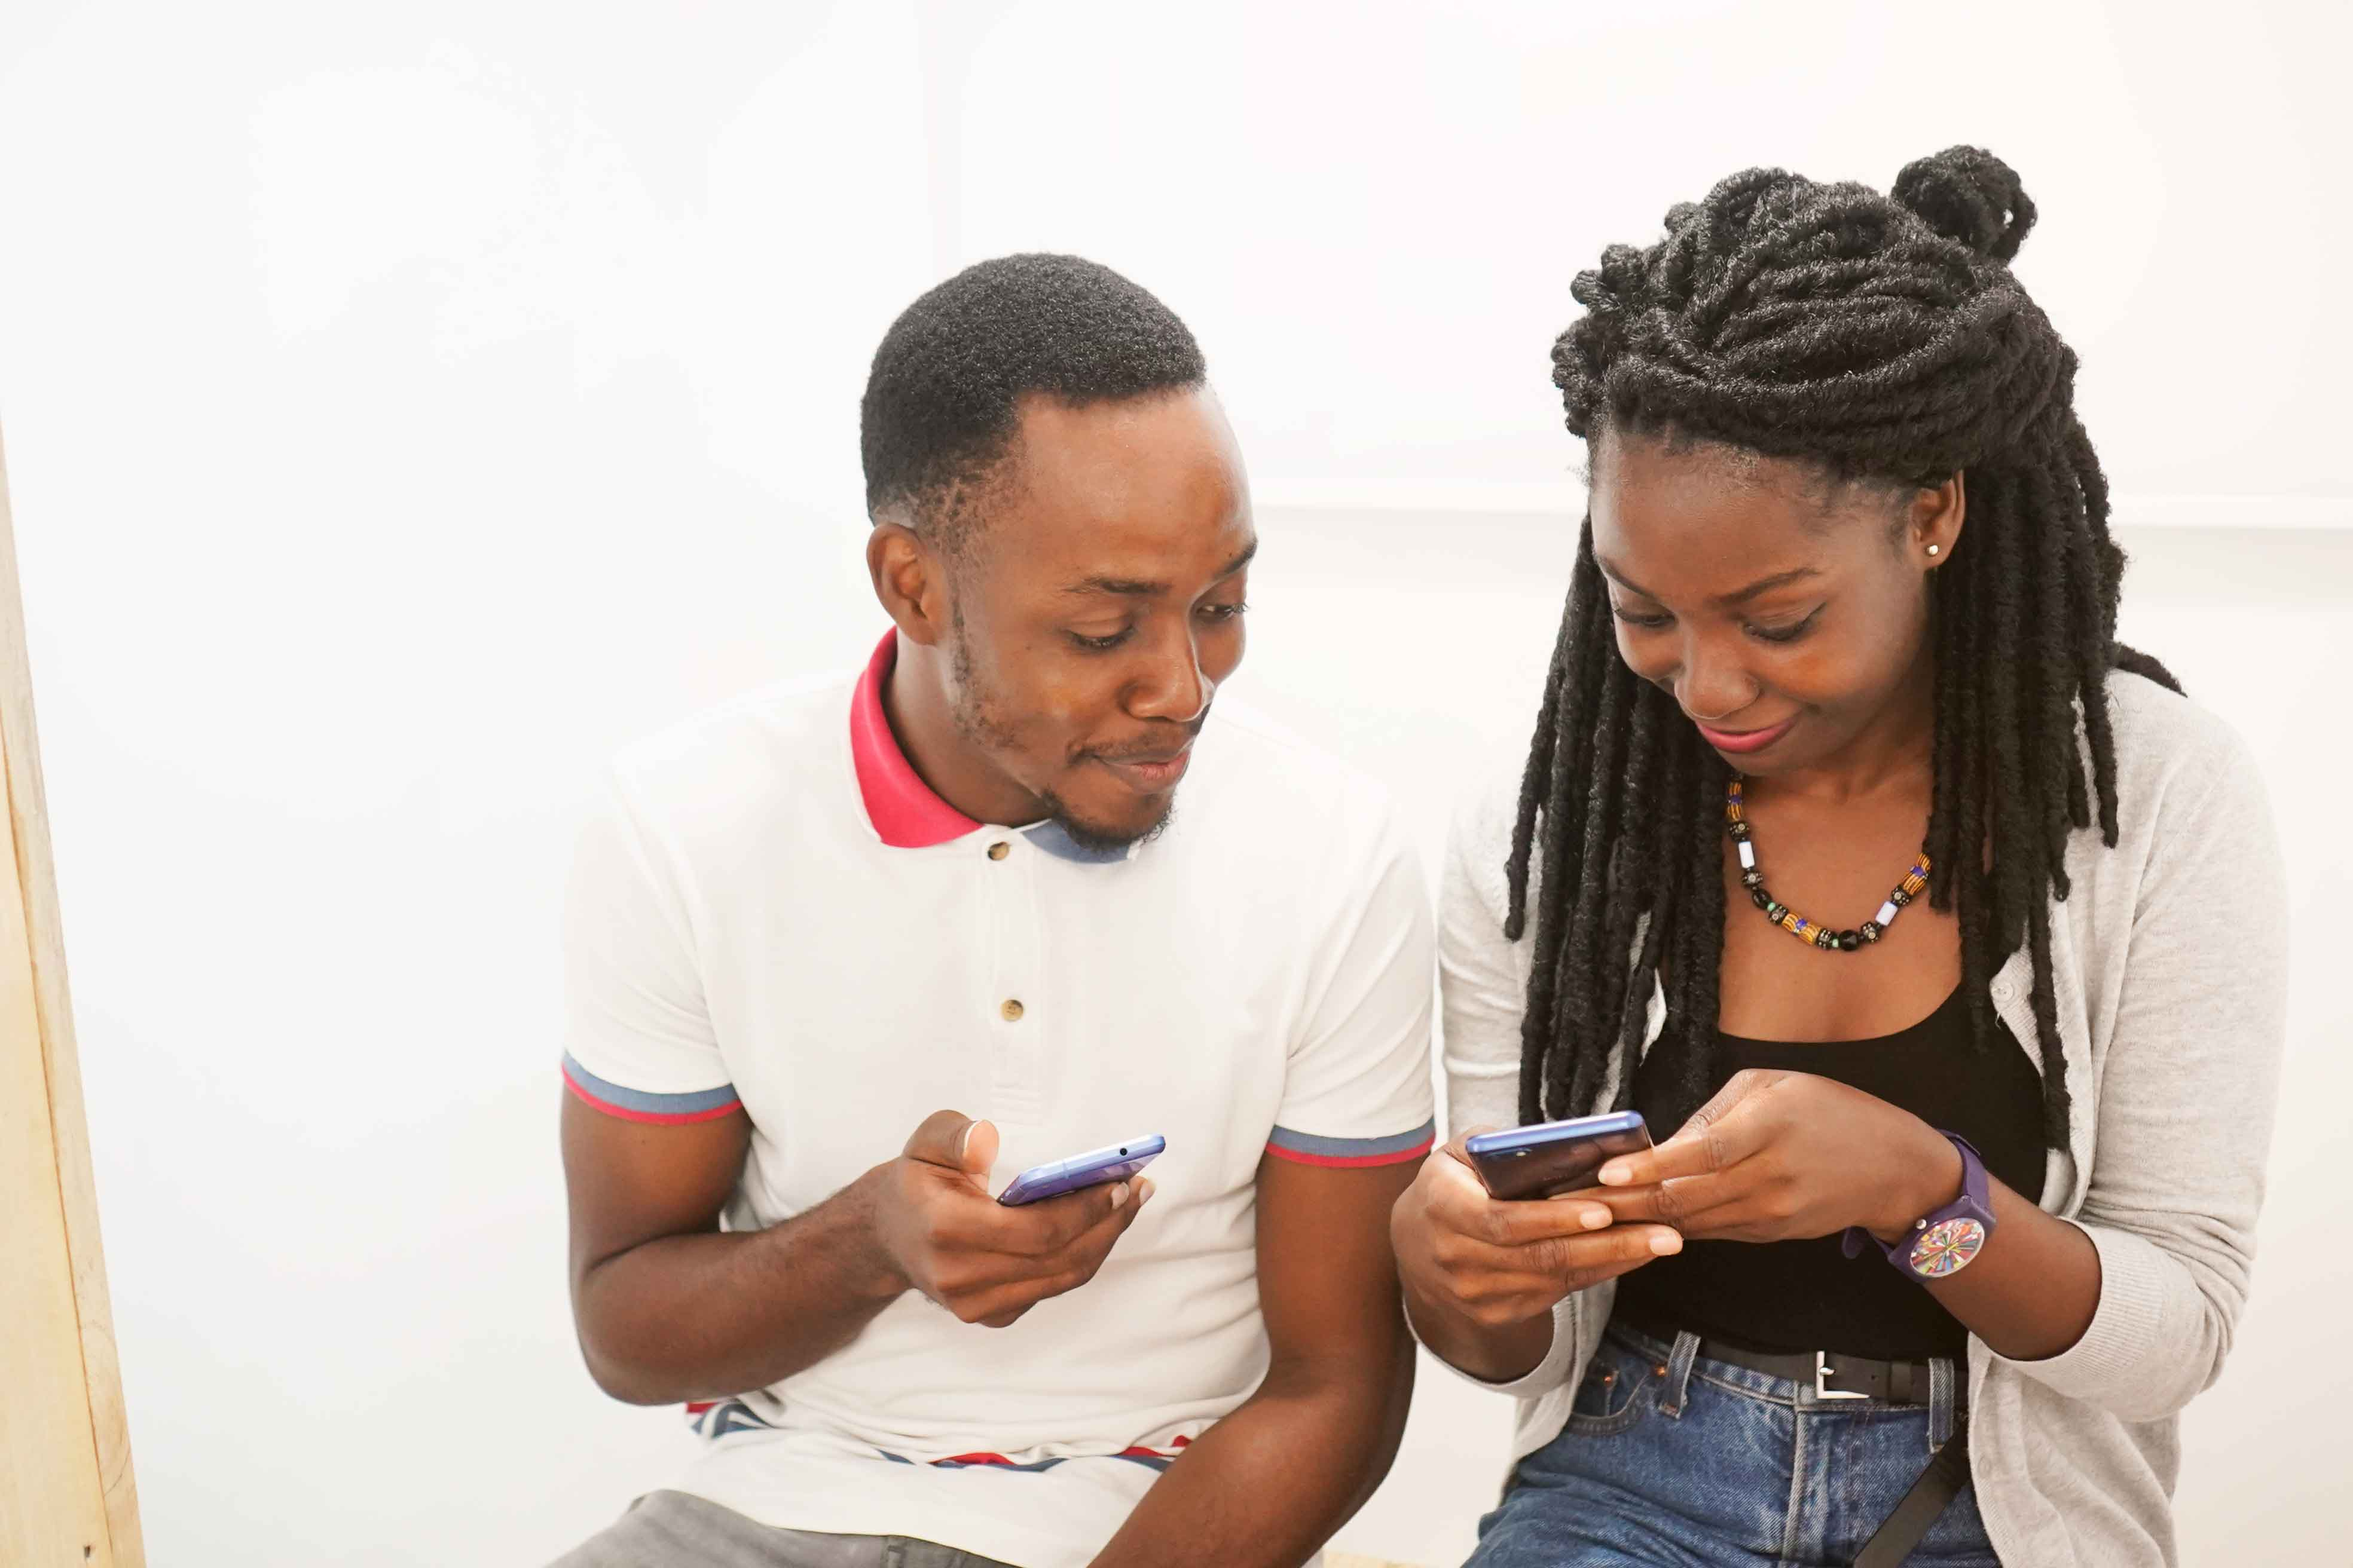
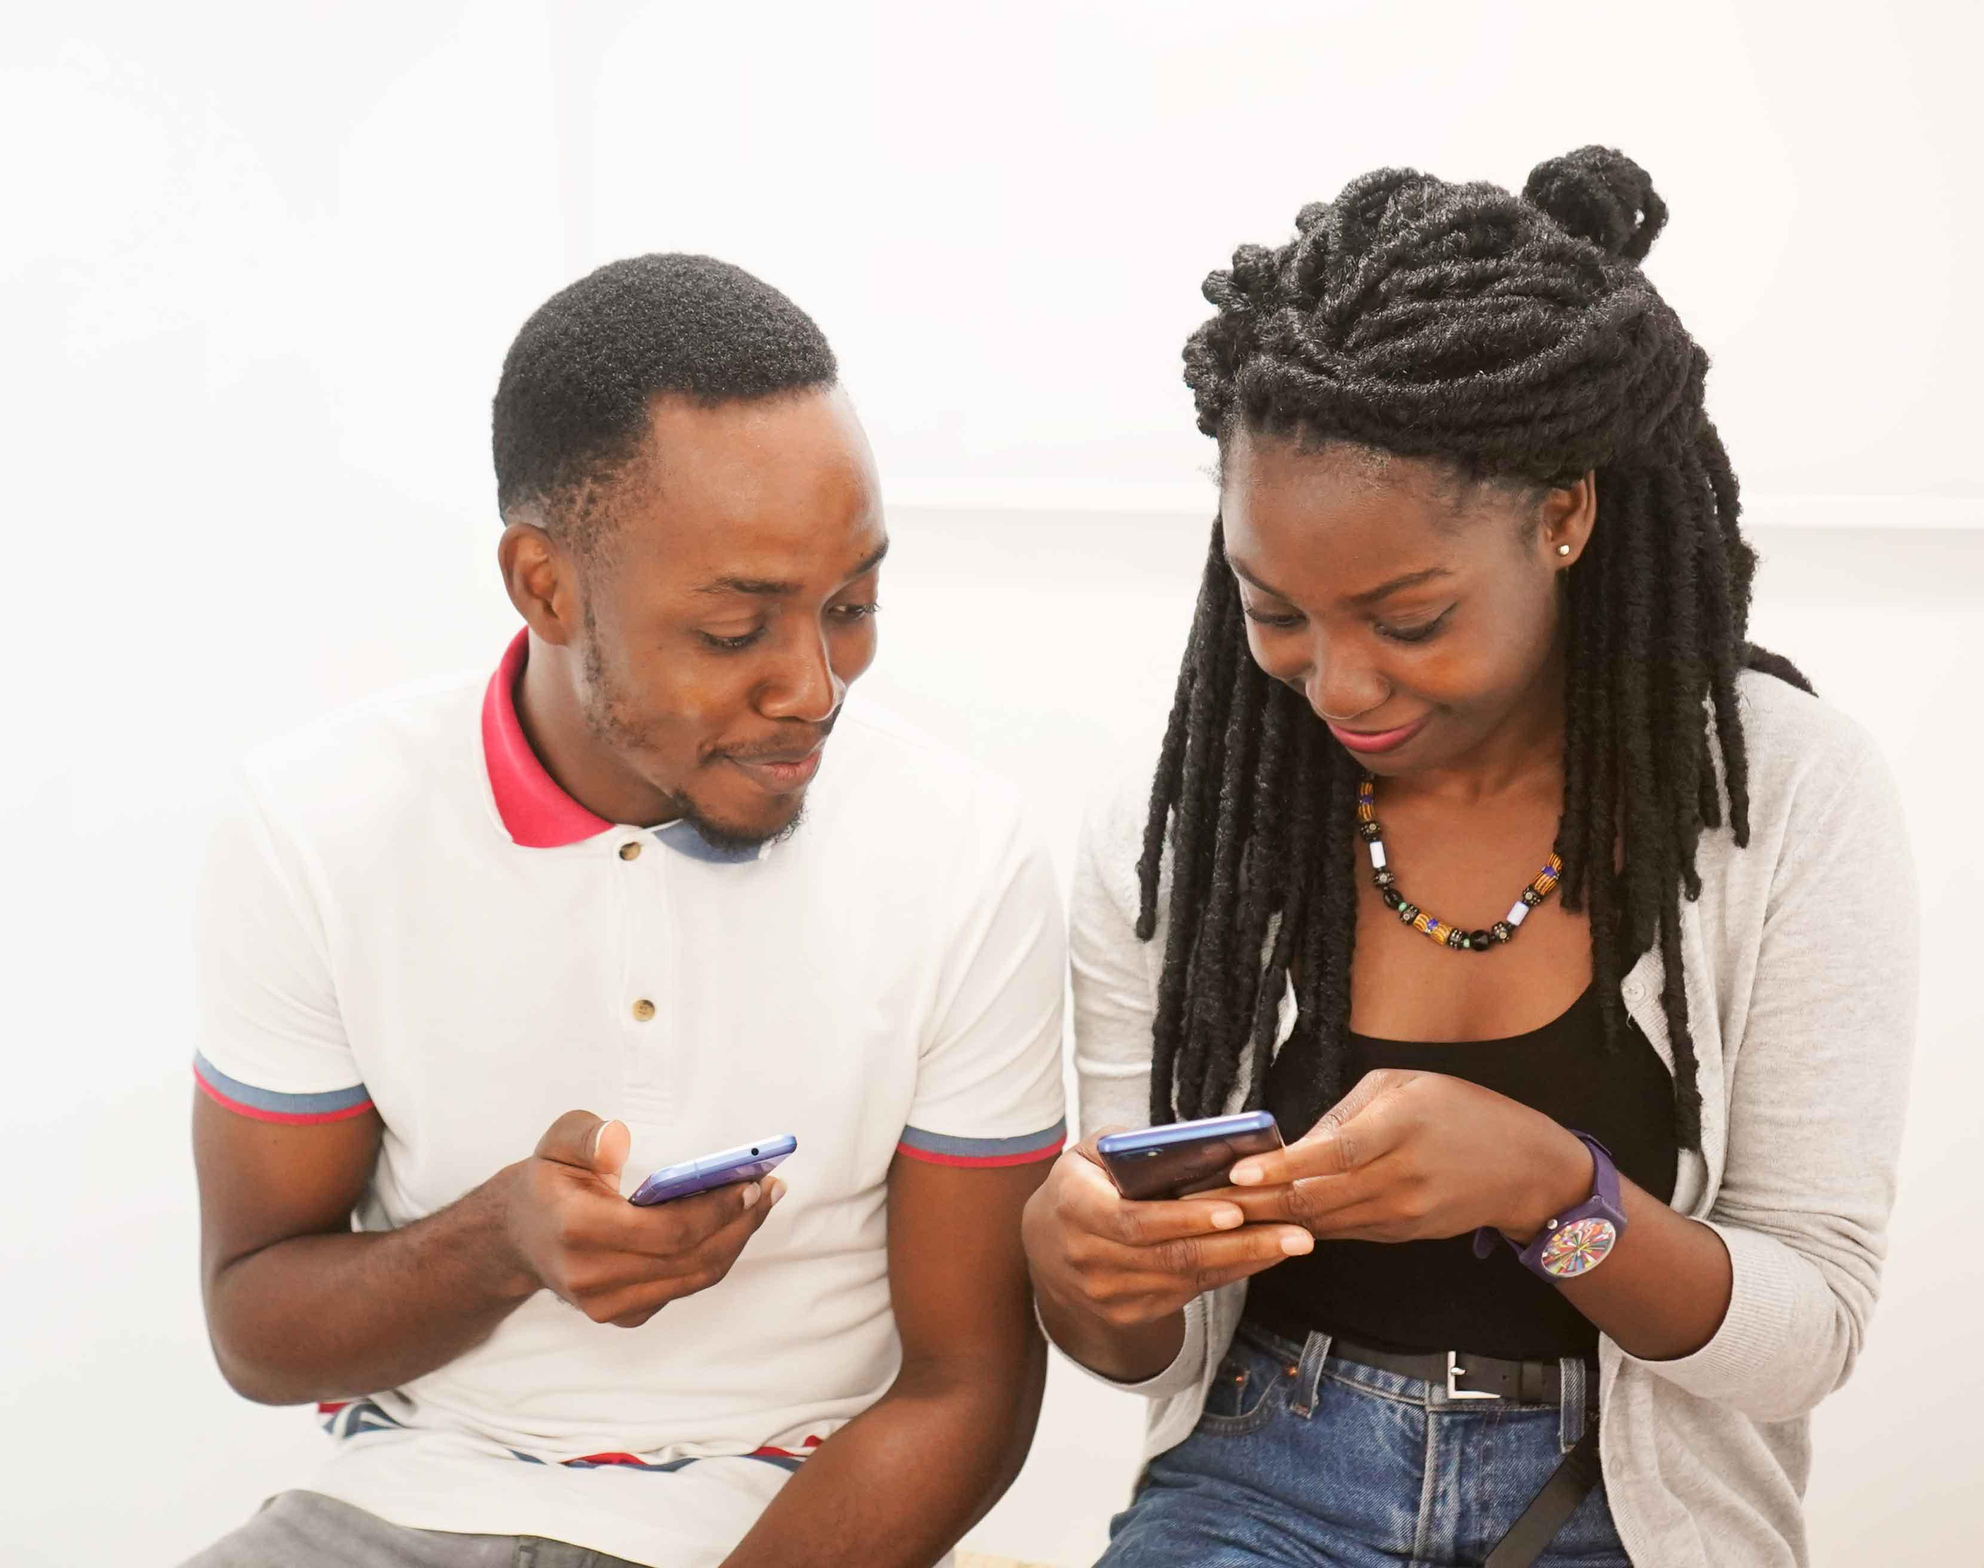
for everyone image changed

diff --git a/_site/augustine.html b/_site/augustine.html
@@ -27,9 +27,9 @@
 <meta property="og:site_name" content="Eyowo" />
 <meta property="og:image" content="https://www.eyowo.com/uploads/people/austines-pix.jpg" />
 <meta property="og:type" content="article" />
-<meta property="article:published_time" content="2018-08-06T17:46:42+01:00" />
+<meta property="article:published_time" content="2018-08-07T09:29:54+01:00" />
 <script type="application/ld+json">
-{"description":"Eyowo is the simplest way to send or recieve money online or offline.","@type":"BlogPosting","url":"https://www.eyowo.com/augustine","image":"https://www.eyowo.com/uploads/people/austines-pix.jpg","headline":"Augustine Ogwo","dateModified":"2018-08-06T17:46:42+01:00","datePublished":"2018-08-06T17:46:42+01:00","mainEntityOfPage":{"@type":"WebPage","@id":"https://www.eyowo.com/augustine"},"@context":"http://schema.org"}</script>
+{"description":"Eyowo is the simplest way to send or recieve money online or offline.","@type":"BlogPosting","url":"https://www.eyowo.com/augustine","image":"https://www.eyowo.com/uploads/people/austines-pix.jpg","headline":"Augustine Ogwo","dateModified":"2018-08-07T09:29:54+01:00","datePublished":"2018-08-07T09:29:54+01:00","mainEntityOfPage":{"@type":"WebPage","@id":"https://www.eyowo.com/augustine"},"@context":"http://schema.org"}</script>
 <!-- End Jekyll SEO tag -->
 
     <link type="application/atom+xml" rel="alternate" href="https://www.eyowo.com/feed.xml" title="Eyowo" />

diff --git a/_site/patrick.html b/_site/patrick.html
@@ -27,9 +27,9 @@
 <meta property="og:site_name" content="Eyowo" />
 <meta property="og:image" content="https://www.eyowo.com/uploads/people/avatar.jpg" />
 <meta property="og:type" content="article" />
-<meta property="article:published_time" content="2018-08-06T17:46:42+01:00" />
+<meta property="article:published_time" content="2018-08-07T09:29:54+01:00" />
 <script type="application/ld+json">
-{"description":"Eyowo is the simplest way to send or recieve money online or offline.","@type":"BlogPosting","url":"https://www.eyowo.com/patrick","image":"https://www.eyowo.com/uploads/people/avatar.jpg","headline":"Patrick Ikoi","dateModified":"2018-08-06T17:46:42+01:00","datePublished":"2018-08-06T17:46:42+01:00","mainEntityOfPage":{"@type":"WebPage","@id":"https://www.eyowo.com/patrick"},"@context":"http://schema.org"}</script>
+{"description":"Eyowo is the simplest way to send or recieve money online or offline.","@type":"BlogPosting","url":"https://www.eyowo.com/patrick","image":"https://www.eyowo.com/uploads/people/avatar.jpg","headline":"Patrick Ikoi","dateModified":"2018-08-07T09:29:54+01:00","datePublished":"2018-08-07T09:29:54+01:00","mainEntityOfPage":{"@type":"WebPage","@id":"https://www.eyowo.com/patrick"},"@context":"http://schema.org"}</script>
 <!-- End Jekyll SEO tag -->
 
     <link type="application/atom+xml" rel="alternate" href="https://www.eyowo.com/feed.xml" title="Eyowo" />

diff --git a/_site/folake.html b/_site/folake.html
@@ -27,9 +27,9 @@
 <meta property="og:site_name" content="Eyowo" />
 <meta property="og:image" content="https://www.eyowo.com/uploads/people/avatar.jpg" />
 <meta property="og:type" content="article" />
-<meta property="article:published_time" content="2018-08-06T17:46:42+01:00" />
+<meta property="article:published_time" content="2018-08-07T09:29:54+01:00" />
 <script type="application/ld+json">
-{"description":"Eyowo is the simplest way to send or recieve money online or offline.","@type":"BlogPosting","url":"https://www.eyowo.com/folake","image":"https://www.eyowo.com/uploads/people/avatar.jpg","headline":"Folake Agbaje","dateModified":"2018-08-06T17:46:42+01:00","datePublished":"2018-08-06T17:46:42+01:00","mainEntityOfPage":{"@type":"WebPage","@id":"https://www.eyowo.com/folake"},"@context":"http://schema.org"}</script>
+{"description":"Eyowo is the simplest way to send or recieve money online or offline.","@type":"BlogPosting","url":"https://www.eyowo.com/folake","image":"https://www.eyowo.com/uploads/people/avatar.jpg","headline":"Folake Agbaje","dateModified":"2018-08-07T09:29:54+01:00","datePublished":"2018-08-07T09:29:54+01:00","mainEntityOfPage":{"@type":"WebPage","@id":"https://www.eyowo.com/folake"},"@context":"http://schema.org"}</script>
 <!-- End Jekyll SEO tag -->
 
     <link type="application/atom+xml" rel="alternate" href="https://www.eyowo.com/feed.xml" title="Eyowo" />

diff --git a/_site/seun.html b/_site/seun.html
@@ -27,9 +27,9 @@
 <meta property="og:site_name" content="Eyowo" />
 <meta property="og:image" content="https://www.eyowo.com/uploads/people/avatar.jpg" />
 <meta property="og:type" content="article" />
-<meta property="article:published_time" content="2018-08-06T17:46:42+01:00" />
+<meta property="article:published_time" content="2018-08-07T09:29:54+01:00" />
 <script type="application/ld+json">
-{"description":"Eyowo is the simplest way to send or recieve money online or offline.","@type":"BlogPosting","url":"https://www.eyowo.com/seun","image":"https://www.eyowo.com/uploads/people/avatar.jpg","headline":"Seun Williams","dateModified":"2018-08-06T17:46:42+01:00","datePublished":"2018-08-06T17:46:42+01:00","mainEntityOfPage":{"@type":"WebPage","@id":"https://www.eyowo.com/seun"},"@context":"http://schema.org"}</script>
+{"description":"Eyowo is the simplest way to send or recieve money online or offline.","@type":"BlogPosting","url":"https://www.eyowo.com/seun","image":"https://www.eyowo.com/uploads/people/avatar.jpg","headline":"Seun Williams","dateModified":"2018-08-07T09:29:54+01:00","datePublished":"2018-08-07T09:29:54+01:00","mainEntityOfPage":{"@type":"WebPage","@id":"https://www.eyowo.com/seun"},"@context":"http://schema.org"}</script>
 <!-- End Jekyll SEO tag -->
 
     <link type="application/atom+xml" rel="alternate" href="https://www.eyowo.com/feed.xml" title="Eyowo" />

diff --git a/_site/investments.html b/_site/investments.html
@@ -26,9 +26,9 @@
 <meta property="og:url" content="https://www.eyowo.com/investments" />
 <meta property="og:site_name" content="Eyowo" />
 <meta property="og:type" content="article" />
-<meta property="article:published_time" content="2018-08-06T17:46:42+01:00" />
+<meta property="article:published_time" content="2018-08-07T09:29:54+01:00" />
 <script type="application/ld+json">
-{"description":"Eyowo is the simplest way to send or recieve money online or offline.","@type":"BlogPosting","url":"https://www.eyowo.com/investments","headline":"Business","dateModified":"2018-08-06T17:46:42+01:00","datePublished":"2018-08-06T17:46:42+01:00","mainEntityOfPage":{"@type":"WebPage","@id":"https://www.eyowo.com/investments"},"@context":"http://schema.org"}</script>
+{"description":"Eyowo is the simplest way to send or recieve money online or offline.","@type":"BlogPosting","url":"https://www.eyowo.com/investments","headline":"Business","dateModified":"2018-08-07T09:29:54+01:00","datePublished":"2018-08-07T09:29:54+01:00","mainEntityOfPage":{"@type":"WebPage","@id":"https://www.eyowo.com/investments"},"@context":"http://schema.org"}</script>
 <!-- End Jekyll SEO tag -->
 
     <link type="application/atom+xml" rel="alternate" href="https://www.eyowo.com/feed.xml" title="Eyowo" />

diff --git a/_site/finances.html b/_site/finances.html
@@ -26,9 +26,9 @@
 <meta property="og:url" content="https://www.eyowo.com/finances" />
 <meta property="og:site_name" content="Eyowo" />
 <meta property="og:type" content="article" />
-<meta property="article:published_time" content="2018-08-06T17:46:42+01:00" />
+<meta property="article:published_time" content="2018-08-07T09:29:54+01:00" />
 <script type="application/ld+json">
-{"description":"Eyowo is the simplest way to send or recieve money online or offline.","@type":"BlogPosting","url":"https://www.eyowo.com/finances","headline":"Finances","dateModified":"2018-08-06T17:46:42+01:00","datePublished":"2018-08-06T17:46:42+01:00","mainEntityOfPage":{"@type":"WebPage","@id":"https://www.eyowo.com/finances"},"@context":"http://schema.org"}</script>
+{"description":"Eyowo is the simplest way to send or recieve money online or offline.","@type":"BlogPosting","url":"https://www.eyowo.com/finances","headline":"Finances","dateModified":"2018-08-07T09:29:54+01:00","datePublished":"2018-08-07T09:29:54+01:00","mainEntityOfPage":{"@type":"WebPage","@id":"https://www.eyowo.com/finances"},"@context":"http://schema.org"}</script>
 <!-- End Jekyll SEO tag -->
 
     <link type="application/atom+xml" rel="alternate" href="https://www.eyowo.com/feed.xml" title="Eyowo" />

diff --git a/_layouts/home.html b/_layouts/home.html
@@ -65,7 +65,7 @@ layout: default
                 <button class="everyone-button video-button absolute-middle" data-video-link="https://www.youtube.com/embed/-9WFWI16yzU">
                     <!-- {% include tools/icons.html icon="play-button" %} -->
                 </button>
-                <img src="{{ site.url }}/uploads/people/for-every-one-x.jpg" class="cardshadow" alt="{{ item.title }}" class="stacked-tile-image obj-fit-cover is-raised">
+                <img src="{{ site.url }}/uploads/people/for-every-one.jpg" class="cardshadow" alt="{{ item.title }}" class="stacked-tile-image obj-fit-cover is-raised">
             </div>
             <div class="stacked-tile-body card is-raised wrapper will-grow gradient-from-right p-left">
                 <h2 class="mt-0">

diff --git a/_site/index.html b/_site/index.html
@@ -318,7 +318,7 @@ Carry-out transactions with or without a bank account, whether online or offline
     </svg>
  -->
                 </button>
-                <img src="https://www.eyowo.com/uploads/people/for-every-one-x.jpg" class="cardshadow" alt="" class="stacked-tile-image obj-fit-cover is-raised">
+                <img src="https://www.eyowo.com/uploads/people/for-every-one.jpg" class="cardshadow" alt="" class="stacked-tile-image obj-fit-cover is-raised">
             </div>
             <div class="stacked-tile-body card is-raised wrapper will-grow gradient-from-right p-left">
                 <h2 class="mt-0">
